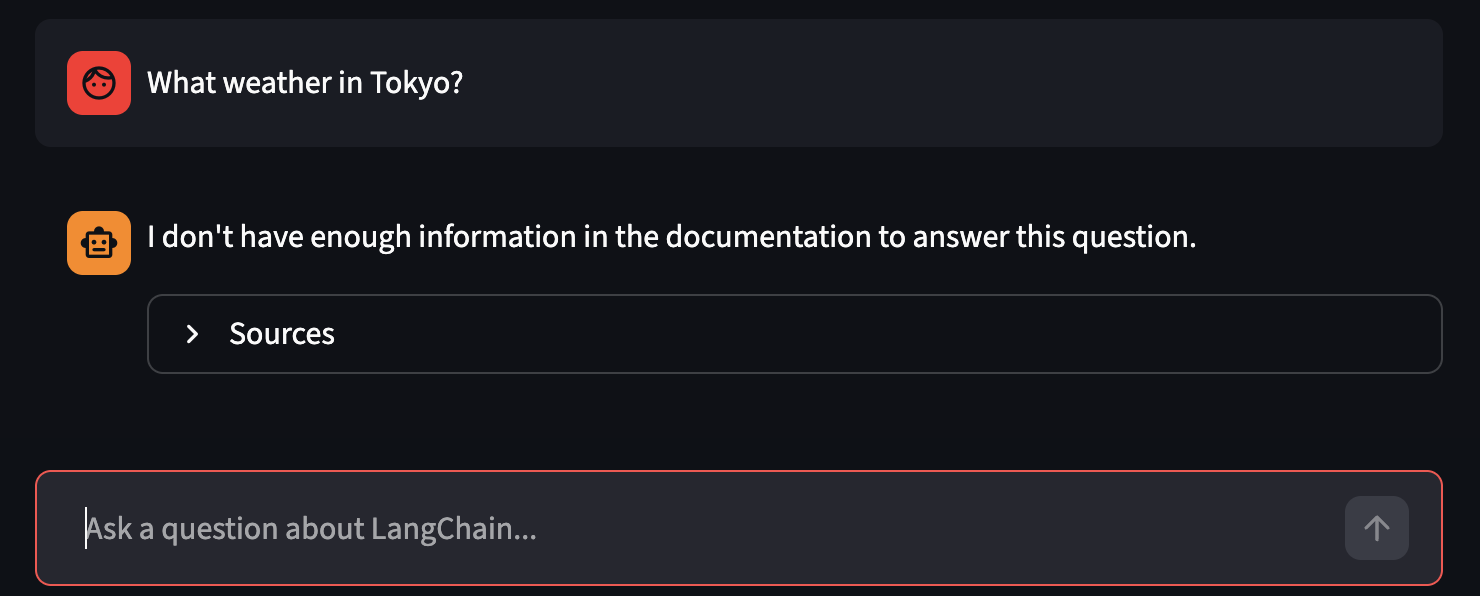
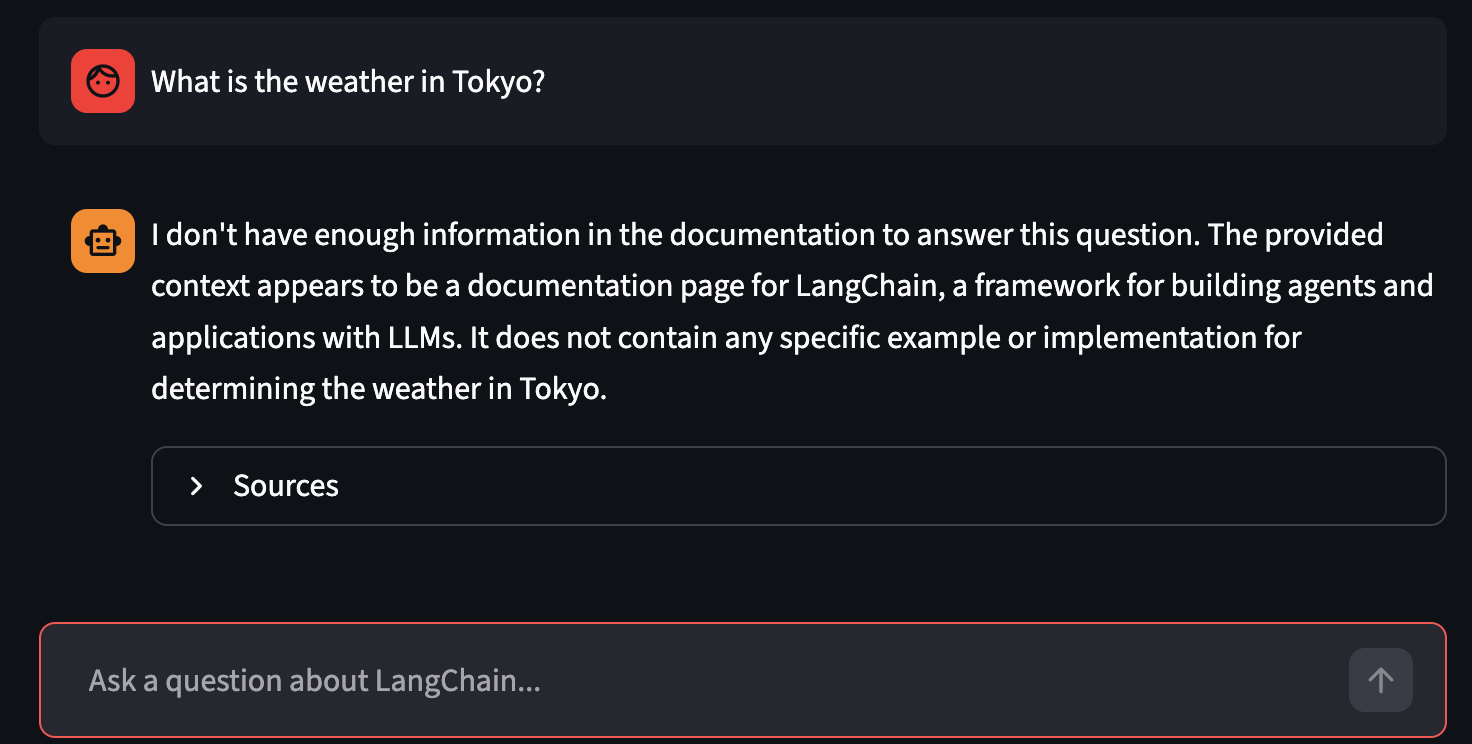
docs: update README

diff --git a/README.md b/README.md
@@ -1,6 +1,8 @@
 # doc-helper
 
-A local RAG-based assistant that answers questions about LangChain documentation. Ask anything about LangChain — the system finds relevant docs and generates an answer using a local LLM.
+A local **2-Step RAG** documentation assistant that answers questions about LangChain. Built with LangChain, OpenSearch, Ollama, and Streamlit — everything runs locally, no OpenAI required.
+
+The system crawls LangChain documentation, indexes it into a vector store, and uses a local LLM to generate answers based on retrieved context. Out-of-scope questions are correctly refused.
 
 ## Screenshots
 
@@ -10,32 +12,59 @@ A local RAG-based assistant that answers questions about LangChain documentation
 **What are deep agents?**
 ![Deep Agents](assets/DeepAgents.png)
 
-**What weather in Tokyo?** *(out-of-scope question — correctly says it doesn't know)*
+**What is the weather in Tokyo?** *(out-of-scope — correctly refused)*
 ![Tokyo](assets/Tokyo.png)
+
+## How it works
+
+```
+Ingestion (one-time):
+  Tavily crawls python.langchain.com
+      → RecursiveCharacterTextSplitter chunks the text
+      → Ollama (nomic-embed-text) generates embeddings
+      → Vectors + text stored in OpenSearch
+
+Query (each request):
+  User question
+      → embedded with nomic-embed-text
+      → OpenSearch kNN search returns top-5 relevant chunks
+      → chunks + question passed to Ollama LLM (llama3.2:3b)
+      → answer streamed to Streamlit UI
+```
 
 ## Stack
 
-- **LangChain** — orchestration
-- **Tavily** — documentation crawling
-- **OpenSearch** — vector store
-- **Ollama** — local LLM and embeddings (runs natively, not in Docker)
-- **Streamlit** — chat UI
-- **Docker** — containerized services (OpenSearch + app)
+| Layer | Technology |
+|---|---|
+| Orchestration | LangChain (LCEL) |
+| Crawling | Tavily |
+| Vector store | OpenSearch 3.6 |
+| Embeddings | Ollama — nomic-embed-text |
+| LLM | Ollama — llama3.2:3b |
+| UI | Streamlit |
+| Observability | LangSmith |
+| Infrastructure | Docker, Docker Compose |
 
-## Architecture
+## Project structure
 
 ```
-User question
-    → embed with Ollama (nomic-embed-text)
-    → search OpenSearch for relevant chunks
-    → pass chunks + question to Ollama LLM
-    → stream answer to Streamlit UI
+doc-helper/
+├── app/
+│   ├── main.py          # Streamlit UI
+│   ├── retriever.py     # OpenSearch vector search
+│   └── llm.py           # Ollama LLM chain
+├── ingestion/
+│   └── ingest.py        # Crawl → chunk → embed → store
+├── docker-compose.yml
+├── Dockerfile
+├── Makefile
+└── .env.example
 ```
 
 ## Requirements
 
 - Docker
-- [Ollama](https://ollama.com) installed natively (required for GPU acceleration)
+- [Ollama](https://ollama.com) installed natively (required for Apple Silicon GPU acceleration)
 - Tavily API key — free at https://app.tavily.com
 - LangSmith API key — free at https://smith.langchain.com
 
@@ -85,8 +114,6 @@ make ingest
 
 ## Configuration
 
-All configuration is done via `.env`:
-
 | Variable | Description |
 |---|---|
 | `TAVILY_API_KEY` | Tavily API key |
@@ -94,6 +121,6 @@ All configuration is done via `.env`:
 | `LANGCHAIN_PROJECT` | LangSmith project name |
 | `OPENSEARCH_URL` | OpenSearch connection URL |
 | `OPENSEARCH_INDEX_NAME` | Name of the vector index |
-| `OLLAMA_BASE_URL` | Ollama server URL |
+| `OLLAMA_BASE_URL` | Ollama server URL (`http://host.docker.internal:11434` for native Ollama) |
 | `LLM_MODEL` | Model used for answer generation |
 | `EMBED_MODEL` | Model used for embeddings |
